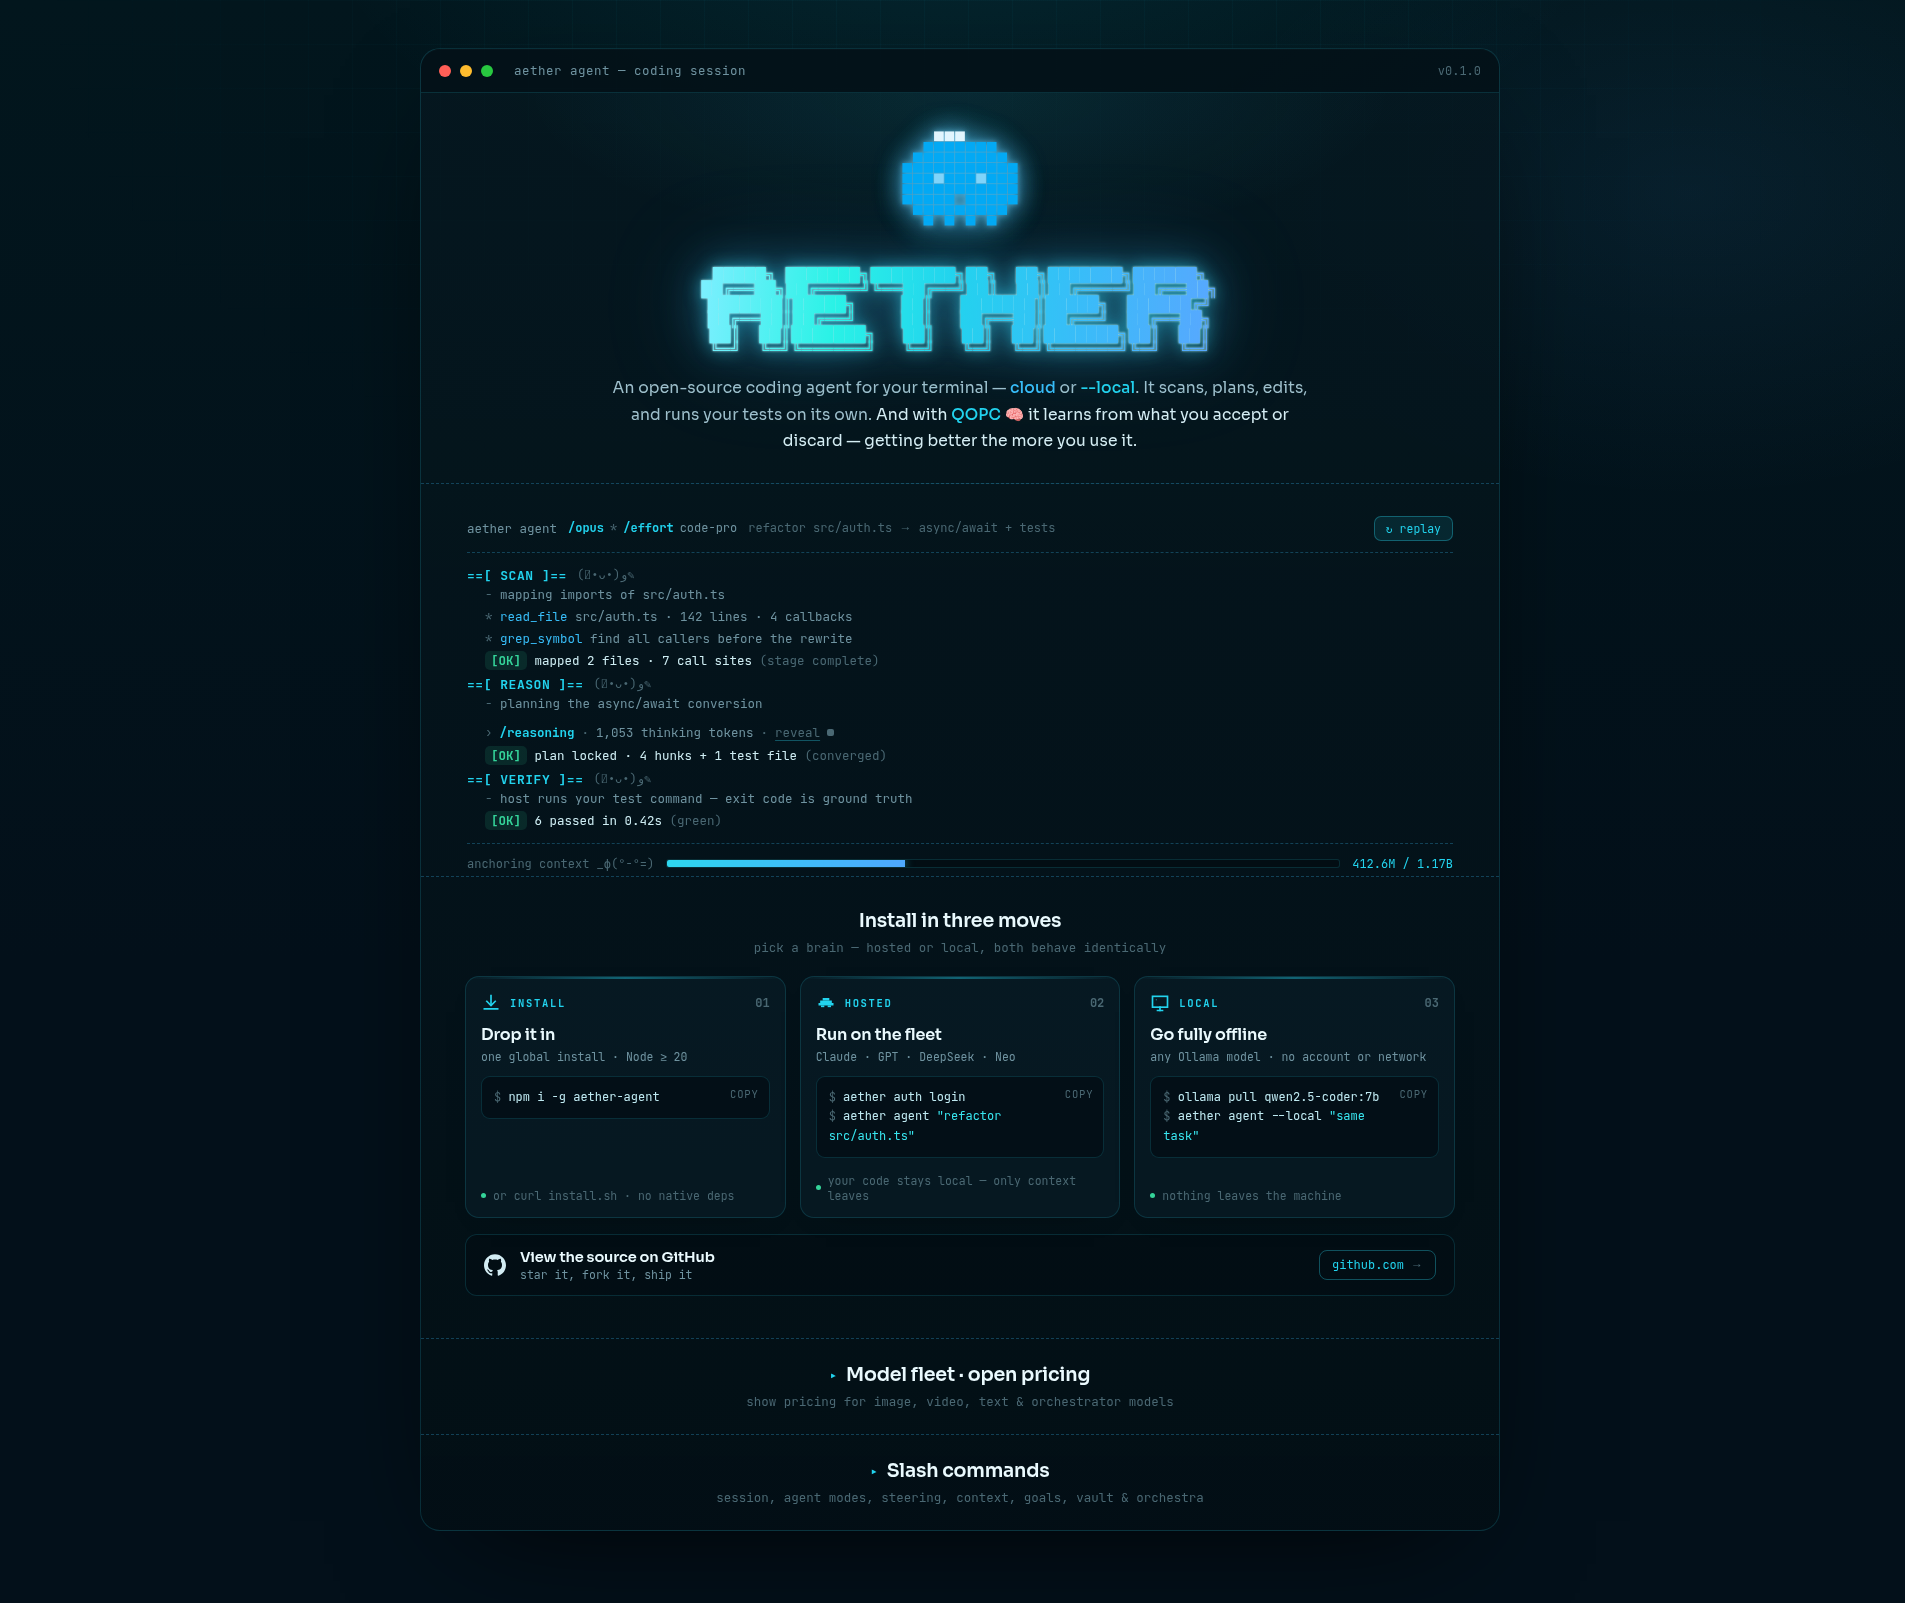
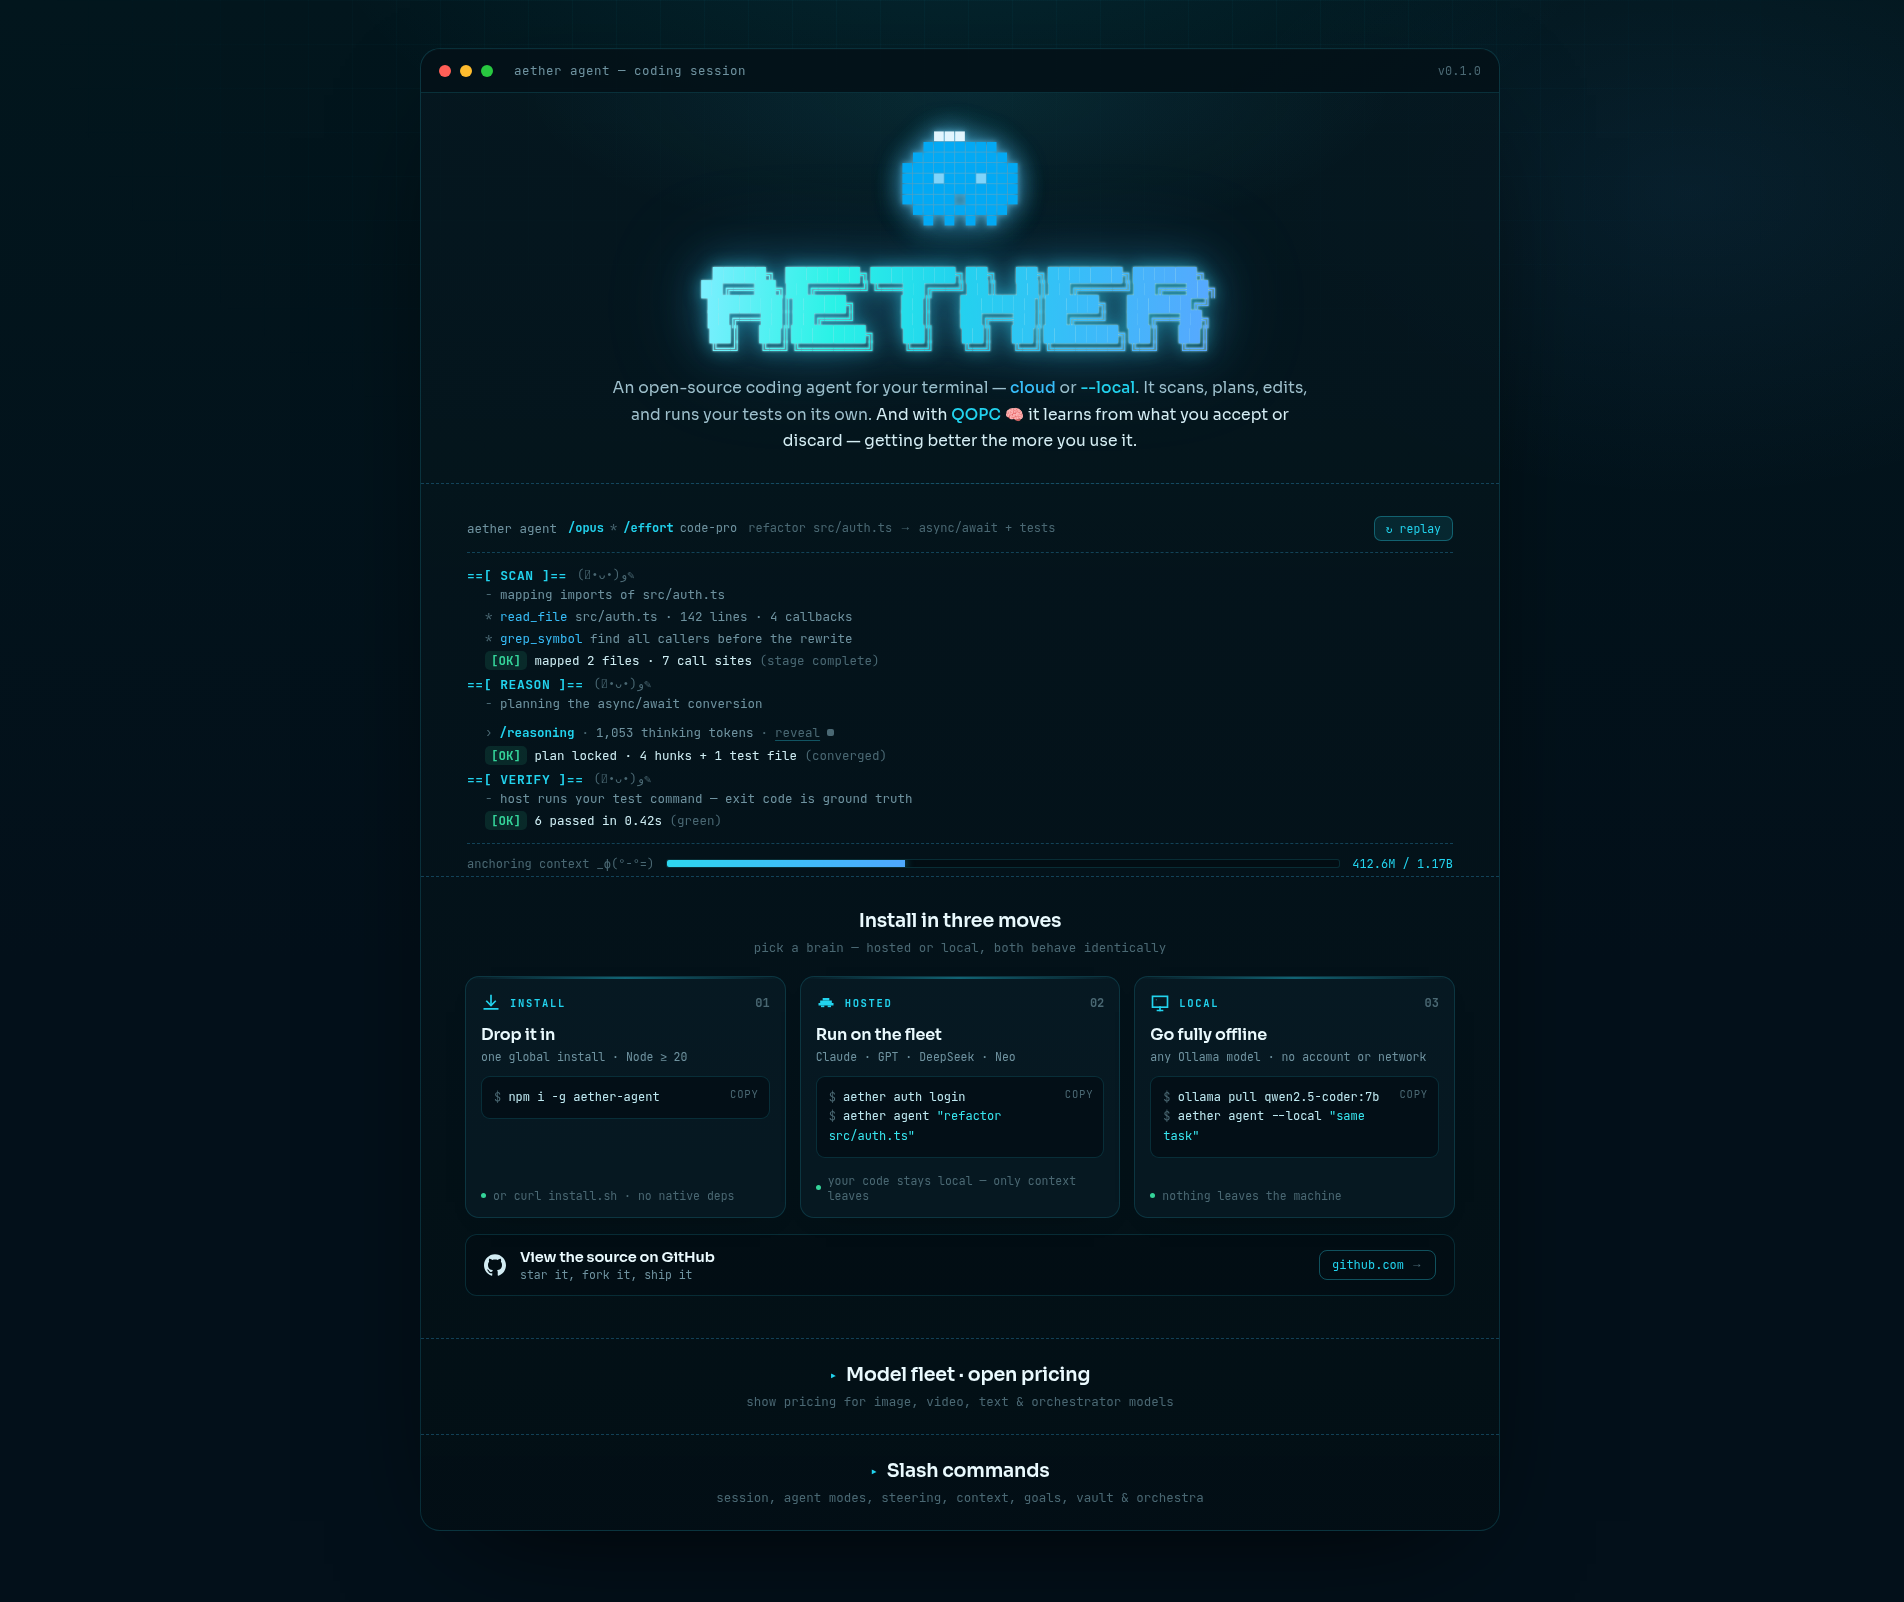
feat: crop card + add expanded models/commands renders + point to app.aethersystems.net

diff --git a/README.md b/README.md
@@ -13,10 +13,8 @@ npm i -g aether-agent     # or run once: npx aether-agent
 </div>
 
 <div align="center">
-<a href="https://dbarr3.github.io/aether-agent/">
-<img src="assets/aether_agent_card.png" alt="Aether Agent — terminal coding session card" width="720" />
-</a>
-<p><em>Click the card for the <a href="https://dbarr3.github.io/aether-agent/">interactive version →</a></em></p>
+<a href="https://app.aethersystems.net/">
+<img src="assets/aether_agent_card.png" alt="Aether Agent — terminal coding session" width="720" /></a>
 </div>
 
 ---
